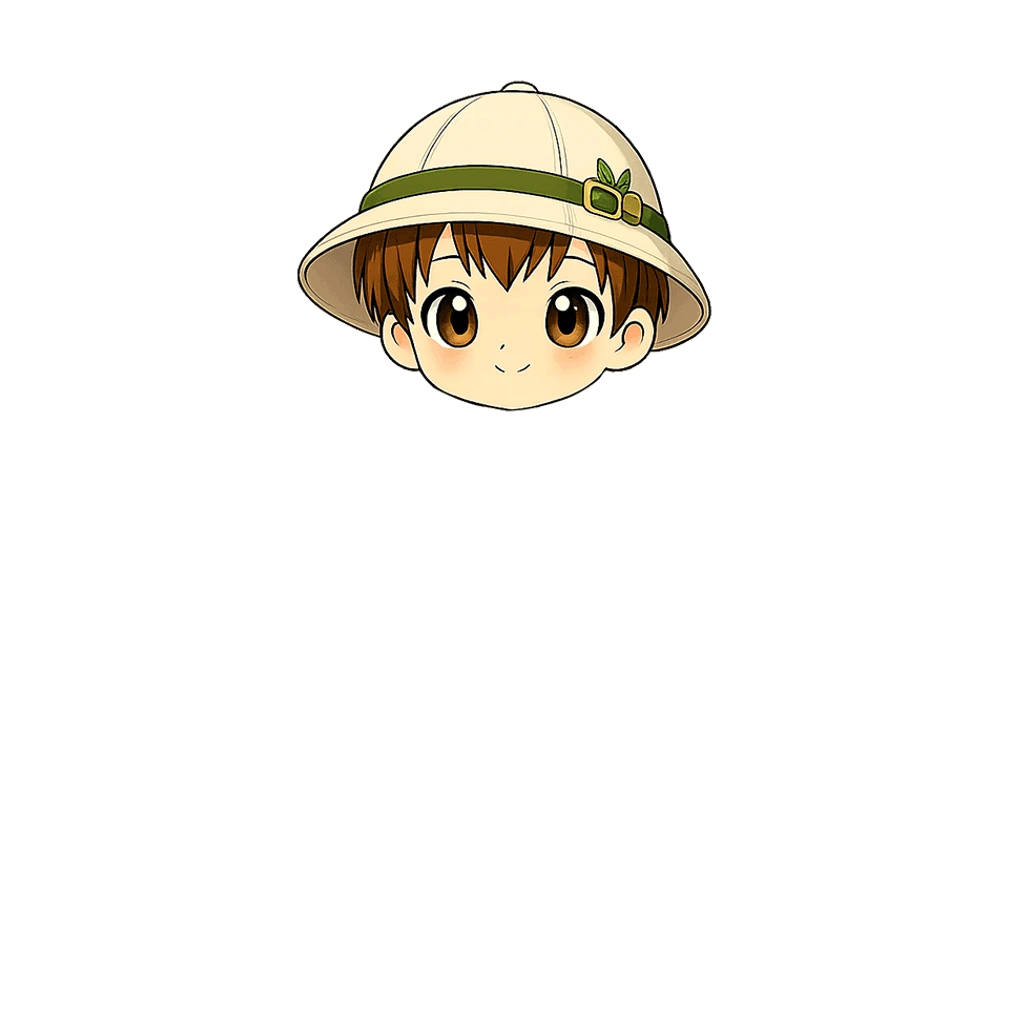
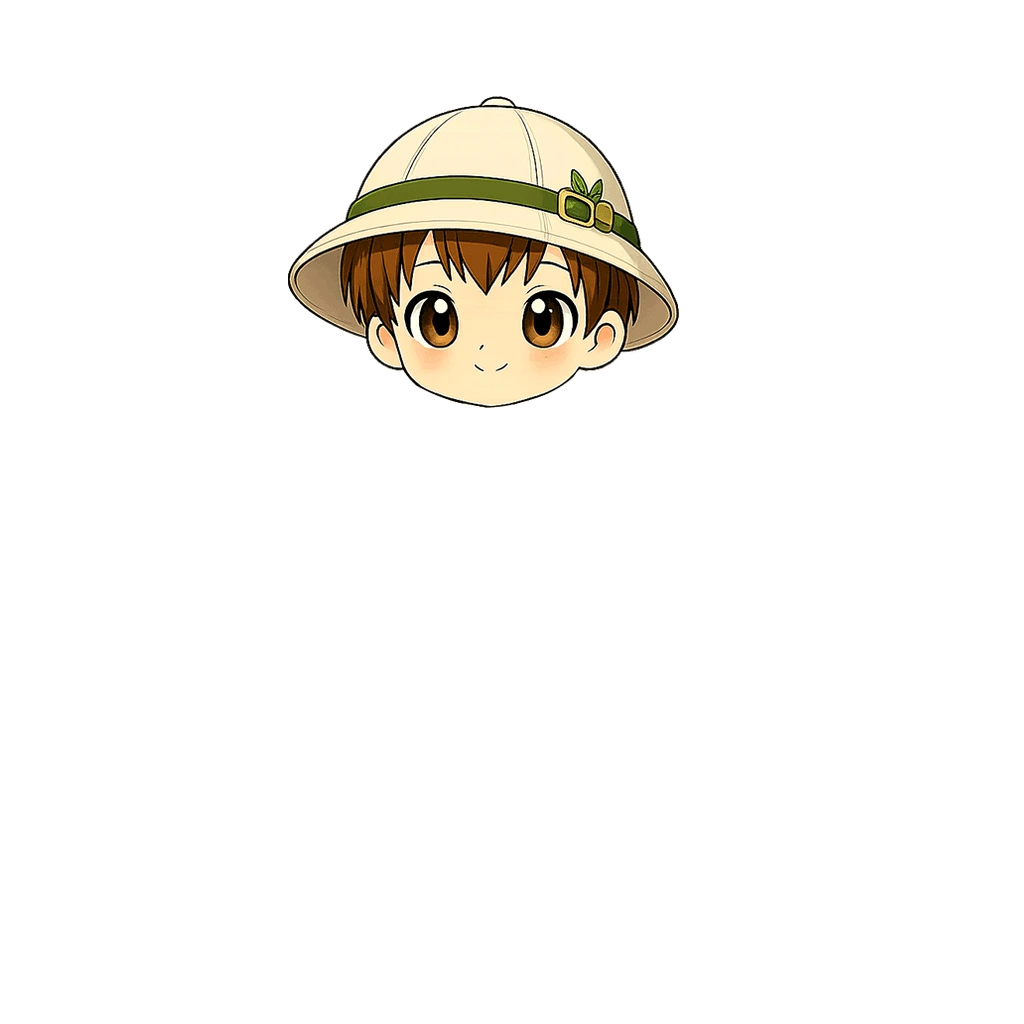
feat: 아바타 베이스를 '몸통+머리' 2장으로 분리 — 모자 쓰면 머리를 안 그린다 (#162)
* fix: 모험지도 발자국 길 이탈 수정 — v5 원화에서 모래길 중심선 자동 추출로 경로 재보정

- 짧은/긴 지도 PATH를 원화 색 분류 스캔(모래색 픽셀 행별 추적)으로 재추출
- 짧은 지도 17점 → 46점, 긴 지도 21점 → 68점 (S커브·다리 통과 정밀 반영)
- 다리 구간은 목재 데크라 색 추출이 안 되어 수동 보간

Claude-Session: https://claude.ai/code/session_018maNuYqDfFyRSe9uKpZhPR

* feat: 우측 상단 원형 뱃지 버튼 3종 세로 배치 (엄마용-아이전환-아바타)

- 사용자 신규 원화 4종 탑재: 엄마용(엄마 얼굴)·아이전환(남매)·내아바타(초록 실루엣)·성장캐릭터(새싹)
- 엄마용·아이전환 뱃지 그림 v2로 교체
- 내 아바타/성장캐릭터 토글: 좌측 하단 나무 팻말 → 우측 상단 3번째 원형 뱃지(52px)로 이동
- 배경 꾸미기 장착 시 크림 캡슐 분기 제거 (뱃지가 헤더 영역이라 불필요)
- 원본 4장 art-src/ 보관 + README 갱신, vite build 검증

Claude-Session: https://claude.ai/code/session_018maNuYqDfFyRSe9uKpZhPR

* feat: 모험지도 학원 건물 v6 정글 세트 교체 (나무집·돌아치·텐트·티키오두막)

- 사용자 신규 원화 4종 탑재: trim + 높이 220 + 채도 1.08 + webp q86
- 텐트·티키는 원화의 흰 원을 투명 펀칭(중심 flood-fill) — 이모지 뒤배치 방식 유지
- 구멍 중심·지름 실측(투명 블롭 스캔)으로 cx/cy/d 갱신, k는 구멍 표시 크기 통일 기준 재계산
- 구 건물 webp 4종 삭제(미참조 확인), 원본은 art-src/ 보관 + README 갱신

Claude-Session: https://claude.ai/code/session_018maNuYqDfFyRSe9uKpZhPR

* polish: 모험 홈 무게중심 미세조정 6종 (사용자 픽셀 단위 가이드)

- 캐릭터·펫 컨테이너 20px 위로 (translateY 6→-14) — 하단 시트 눌림감 해소
- 헤드라인 문구 아래 20px·우측 7px (relative, 레이아웃 불변) + 나침반 이모지 간격 축소
- 우측 뱃지 3번째(아바타 토글) marginTop 2px — 간격 착시 보정
- '곧 부화!' 말풍선 알쪽으로 11px 하강 + 4px 우측 — 알과 한 덩어리로
- 시트 핸들바 아래 여백 14→7px — 날짜바 소폭 상승
- 모험 탭 초록 채움 8% 소프트 (#A5BB60→#ACC06D)

Claude-Session: https://claude.ai/code/session_018maNuYqDfFyRSe9uKpZhPR

* polish: 모험지도 라벨·발자국·진행도 개선 (사용자 가이드 8종)

- 이름표 2줄 통일: 1줄 학원명 / 2줄 🕘 시간(진하게) — 전 라벨 동일 규칙
[…]

Changed region(s): [[0.2812, 0.0625, 0.7188, 0.4062]]

diff --git a/src/components/AvatarViewer.jsx b/src/components/AvatarViewer.jsx
@@ -1,6 +1,7 @@
 import { useState } from "react";
 import {
   getAvatarLayers, DEFAULT_AVATAR_BG, AVATAR_BASE_IMG, AVATAR_BASE_IMG_GIRL, AVATAR_BASE_EMOJI, AVATAR_BASE_Z,
+  AVATAR_BASE_BODY_IMG, AVATAR_BASE_HEAD_IMG, AVATAR_BASE_BODY_IMG_GIRL, AVATAR_BASE_HEAD_IMG_GIRL,
 } from "../data/avatarEquipment.js";
 
 /* ════════════════════════════════════════════════════════════════════════
@@ -12,7 +13,12 @@ import {
 
    폴백 체인
      · 장비: img 로드 실패 → 슬롯별 emojiPos 위치에 대표 이모지
-     · 베이스: AVATAR_BASE_IMG 실패 → baseCharImg(성장 3단계) → 이모지
+     · 베이스: 몸통+머리 2장 → (로드 실패 시) 합본 1장 → baseCharImg(성장 3단계) → 이모지
+
+   머리 숨김
+     hidesHead가 붙은 장비(모자 등)를 착용하면 베이스의 '머리' 장을 아예 안 그린다.
+     그 장비 그림이 모자와 얼굴을 함께 담고 있어 머리를 대신하기 때문. 예전처럼 베이스
+     머리 위에 덮어 씌우면 크기가 조금만 어긋나도 턱선·귀선이 겹쳐 보였다.
 
    props
      equipped    : { [slot]: itemId | null }
@@ -68,11 +74,31 @@ function AvatarLayer({ item, emojiPos, size }) {
   );
 }
 
-/* 베이스 캐릭터 — 아바타 전용 아트 → 성장 캐릭터 → 이모지 폴백 */
-function BaseCharacter({ baseCharImg, size, gender = "boy" }) {
-  const [baseFailed, setBaseFailed] = useState(false);
-  const baseSrc = gender === "girl" ? AVATAR_BASE_IMG_GIRL : AVATAR_BASE_IMG;
+/* 베이스 캐릭터 — 몸통+머리 2장 → 합본 1장 → 성장 캐릭터 → 이모지 폴백 */
+function BaseCharacter({ baseCharImg, size, gender = "boy", hideHead = false }) {
+  const [baseFailed, setBaseFailed] = useState(false);   // 합본까지 실패
+  const [splitFailed, setSplitFailed] = useState(false); // 분리본만 실패 → 합본으로
+  const girl = gender === "girl";
+  const baseSrc = girl ? AVATAR_BASE_IMG_GIRL : AVATAR_BASE_IMG;
+  const bodySrc = girl ? AVATAR_BASE_BODY_IMG_GIRL : AVATAR_BASE_BODY_IMG;
+  const headSrc = girl ? AVATAR_BASE_HEAD_IMG_GIRL : AVATAR_BASE_HEAD_IMG;
+  const imgStyle = { position: "absolute", inset: 0, width: "100%", height: "100%",
+    objectFit: "contain", pointerEvents: "none" };
+  // 그림자는 두 장을 감싼 div에 한 번만 — 장마다 걸면 머리 그림자가 몸통 위에 진다
+  const shadow = { position: "absolute", inset: 0, filter: "drop-shadow(0 6px 10px rgba(0,0,0,0.20))" };
 
+  if (!baseFailed && !splitFailed) {
+    return (
+      <div style={shadow}>
+        <img src={"/" + bodySrc.replace(/^\/+/, "")} alt="아바타"
+          onError={() => setSplitFailed(true)} draggable={false} style={imgStyle} />
+        {!hideHead && (
+          <img src={"/" + headSrc.replace(/^\/+/, "")} alt=""
+            onError={() => setSplitFailed(true)} draggable={false} style={imgStyle} />
+        )}
+      </div>
+    );
+  }
   if (!baseFailed) {
     return (
       <img
@@ -80,11 +106,7 @@ function BaseCharacter({ baseCharImg, size, gender = "boy" }) {
         alt="아바타"
         onError={() => setBaseFailed(true)}
         draggable={false}
-        style={{
-          position: "absolute", inset: 0, width: "100%", height: "100%",
-          objectFit: "contain", pointerEvents: "none",
-          filter: "drop-shadow(0 6px 10px rgba(0,0,0,0.20))",
-        }}
+        style={{ ...imgStyle, filter: "drop-shadow(0 6px 10px rgba(0,0,0,0.20))" }}
       />
     );
   }
@@ -116,6 +138,8 @@ export default function AvatarViewer({ equipped = {}, size = 200, showFrame = tr
   const layers = getAvatarLayers(equipped).filter(
     (layer) => showBg || layer.item?.slot !== "background"
   );
+  // 얼굴째 덮는 장비(모자 등)를 쓰면 베이스 머리를 그리지 않는다
+  const hideHead = layers.some((l) => l.item?.hidesHead);
 
   return (
     <div
@@ -146,7 +170,7 @@ export default function AvatarViewer({ equipped = {}, size = 200, showFrame = tr
         </div>
       ))}
       <div style={{ position: "absolute", inset: 0, zIndex: AVATAR_BASE_Z }}>
-        <BaseCharacter baseCharImg={baseCharImg} size={size} gender={gender} />
+        <BaseCharacter baseCharImg={baseCharImg} size={size} gender={gender} hideHead={hideHead} />
       </div>
     </div>
   );

diff --git a/src/data/avatarEquipment.js b/src/data/avatarEquipment.js
@@ -33,8 +33,17 @@ export const DEFAULT_CHAR_DISPLAY_MODE = CHAR_DISPLAY_GROWTH;
    꾸미기 전용 캐릭터 1장. 모자·안경·손지물 없이 맨몸(기본옷)으로 제작된
    1024×1024 이미지. 모든 장비는 이 위에 덧씌워진다.
    아트가 아직 없으면 뷰어가 성장 3단계 캐릭터 → 이모지 순으로 폴백한다. */
-export const AVATAR_BASE_IMG   = "assets/avatar/base/default.webp";        // 남아(기본)
-export const AVATAR_BASE_IMG_GIRL = "assets/avatar/base/default-girl.webp"; // 여아
+export const AVATAR_BASE_IMG   = "assets/avatar/base/default.webp";        // 남아(머리+몸통 합본 — 폴백용)
+export const AVATAR_BASE_IMG_GIRL = "assets/avatar/base/default-girl.webp"; // 여아(합본 — 폴백용)
+/* 베이스를 '몸통'과 '머리' 두 장으로 나눠 둔다 (사용자 확정).
+   모자처럼 얼굴째 덮는 장비(hidesHead)를 쓰면 머리 장을 아예 안 그리고 그 자리에 장비 그림만 얹는다.
+   → 예전처럼 베이스 머리 위에 덮어 씌우면 크기가 조금만 안 맞아도 턱선·귀선이 겹쳐 보였는데,
+     아예 안 그리므로 그 문제가 원천적으로 사라진다.
+   두 장은 합본과 같은 1024×1024 좌표계라 그냥 겹쳐 그리면 정확히 맞는다. */
+export const AVATAR_BASE_BODY_IMG      = "assets/avatar/base/body.webp";
+export const AVATAR_BASE_HEAD_IMG      = "assets/avatar/base/head.webp";
+export const AVATAR_BASE_BODY_IMG_GIRL = "assets/avatar/base/body-girl.webp";
+export const AVATAR_BASE_HEAD_IMG_GIRL = "assets/avatar/base/head-girl.webp";
 export const AVATAR_BASE_EMOJI = "🧒";
 
 /* ── 기본 배경 (아이템 아님) ────────────────────────────────────────── */
@@ -96,7 +105,7 @@ export const AVATAR_CATALOG = [
      DEFAULT_AVATAR_BG(뷰어 항상 표시)로 유지되므로 스타터 배경 없이도 문제 없음. */
 
   /* 초기 장비 6종 — 탐험 테마 */
-  { id: "hat_explorer",   slot: "hat",   label: "탐험 헬멧",   emoji: "🪖", price: 200, rarity: "epic",   theme: "adventure", img: "assets/avatar/hat/explorer-helmet.webp" },
+  { id: "hat_explorer",   slot: "hat",   label: "탐험 헬멧",   emoji: "🪖", price: 200, rarity: "epic",   theme: "adventure", img: "assets/avatar/hat/explorer-helmet.webp", hidesHead: true }, // hidesHead: 베이스 머리를 지우고 이 그림(모자+얼굴)으로 대체
   { id: "face_goggles",   slot: "face",  label: "탐험 고글",   emoji: "🥽", price: 120, rarity: "rare",   theme: "adventure", img: "assets/avatar/face/goggles.webp" },
   { id: "top_vest",       slot: "top",   label: "탐험 조끼",   emoji: "🦺", price: 150, rarity: "rare",   theme: "adventure", img: "assets/avatar/top/explorer-vest.webp" },
   { id: "shoes_boots",    slot: "shoes", label: "탐험 부츠",   emoji: "🥾", price: 80,  rarity: "common", theme: "adventure", img: "assets/avatar/shoes/explorer-boots.webp" },

diff --git a/art-src/README.md b/art-src/README.md
@@ -8,16 +8,22 @@ ChatGPT로 생성한 **가공 전 원본 이미지**를 보관한다. 배포(dis
 **보관 형식**: 원본은 **webp(q92)** 로 저장한다. PNG로 두면 저장소가 빠르게 커진다
 (58장 63MB → 8MB). 화질 손실은 재가공에 지장 없는 수준.
 
+**아바타 베이스 구조**: 베이스는 **'몸통'과 '머리' 두 장**으로 나뉘어 있다
+(base/body.webp + base/head.webp, 여아는 -girl). 합본(default.webp)은 로드 실패 시 폴백용.
+모자처럼 얼굴째 덮는 장비는 카탈로그에 `hidesHead: true`를 달면 머리 장을 아예 안 그리고
+그 자리에 장비 그림만 얹는다 — 베이스 머리 위에 덮어 씌우면 크기가 조금만 어긋나도
+턱선·귀선이 겹쳐 보이던 문제가 이 구조로 원천 해결된다.
+남아 머리/몸통 경계 y=403(턱 끝) · 여아 y=405. 얼굴 덮는 장비는 **턱 끝을 이 y에 맞추고
+얼굴 최대폭을 243(남)/241(여)에 맞추면** 목이 자연스럽게 이어진다.
+
 **아바타 베이스 교체 규칙**: 모자·신발·상의 등 장비 그림은 1024×1024 안에서
 '베이스가 있던 자리'에 맞춰 그려져 있다. 그래서 베이스를 새로 넣을 땐 반드시
 **현행 베이스의 bbox(키·중심x·발끝)에 맞춰 배율·위치를 잡아야** 장비가 어긋나지 않는다.
 현행 기준값 — 남아 x365~657 / y122~935, 여아 x349~673 / y121~936 (중심x 511).
 눈 위치(장비 정렬 기준) — 남아 간격 96.8·중심 (512, 321) / 여아 간격 106.8·중심 (510, 303).
-얼굴을 덮는 장비(모자 등)의 배율은 **눈 간격이 아니라 '베이스 윤곽선이 안 삐져나오는 최소 배율'** 로
-정한다. 눈 간격으로 맞추면 얼굴 폭 비율이 달라 턱선·귀선이 겹쳐 보인다(실제로 겪음).
-검증법: 베이스의 검은 윤곽선 픽셀 중 오버레이 밖에 남는 개수를 세어 0이 되는 배율을 찾는다.
-  남아 — 0.97배 554개 남음 → 1.05배 0개 (여아는 양갈래가 밖에 남는 게 정상이라 0이 안 된다)
-현행 탐험 헬멧 = 원화의 1.05배, 눈 중심 (511, 312)에 정렬.
+(옛 방식 기록 — 머리 장을 안 그리기 전에는 얼굴 덮는 장비를 '베이스 윤곽선이 안 삐져나오는
+최소 배율'로 키워야 했다. 지금은 머리를 아예 안 그리므로 그런 여유가 필요 없고,
+턱 끝·얼굴폭만 맞추면 된다.)
 
 **정리 이력**: 교체·은퇴된 원본 26개(37MB)는 작업 폴더에서 삭제했다.
 필요하면 git 히스토리에서 되살릴 수 있다 — `git log --all --diff-filter=D --name-only -- art-src`
@@ -34,13 +40,15 @@ ChatGPT로 생성한 **가공 전 원본 이미지**를 보관한다. 배포(dis
 
 | 파일 | 용도 | 탑재 에셋 |
 |---|---|---|
-| base-boy-v3.webp | 남아 아바타 베이스 원화 v3 (현행 — 배경 제거·현행 bbox에 맞춰 정렬 탑재) | avatar/base/default.webp |
+| base-boy-v4-head.webp | 남아 머리 원화 v4 (현행 — 몸통과 이어 붙여 탑재) | avatar/base/head.webp |
+| base-boy-v4-body.webp | 남아 몸통 원화 v4 (현행 — 머리와 이어 붙여 탑재) | avatar/base/body.webp |
+| base-boy-v3.webp | 남아 아바타 베이스 원화 v3 (교체됨) | — |
 | base-girl-v3.webp | 여아 아바타 베이스 원화 v3 (현행 — 배경 제거·현행 bbox에 맞춰 정렬 탑재) | avatar/base/default-girl.webp |
 | base-boy.webp | 남아 아바타 베이스 원화 v2 (교체됨) | — |
 | base-girl.webp | 여아 아바타 베이스 원화 v2 (교체됨) | — |
 | boots-explorer-sockless.webp | 탐험 부츠 착용 원화 (맨발목, 현행) | avatar/shoes/explorer-boots.webp |
 | boots-cream-sockless.webp | 크림 부츠 착용 원화 (맨발목, 현행) | avatar/shoes/cream-boots.webp |
-| hat-explorer-v2.webp | 탐험 헬멧 착용 원화 v2 (현행 — 얼굴째 덮는 방식, 배율 1.05) | avatar/hat/explorer-helmet.webp |
+| hat-explorer-v2.webp | 탐험 헬멧 착용 원화 v2 (현행 — 머리 장을 숨기고 이 그림으로 대체, hidesHead) | avatar/hat/explorer-helmet.webp |
 | hat-explorer-wearing.webp | 탐험 헬멧 착용 원화 v1 (교체됨) | — |
 | boots-explorer-sockless-v2.webp | 탐험 부츠 착용 원화 (맨발목 v2, 최종 승인본) | avatar/shoes/explorer-boots.webp |
 | boots-green-wearing-v2.webp | 새싹 부츠 착용 원화 (v2, 현행 승인본) | avatar/shoes/green-boots.webp |
